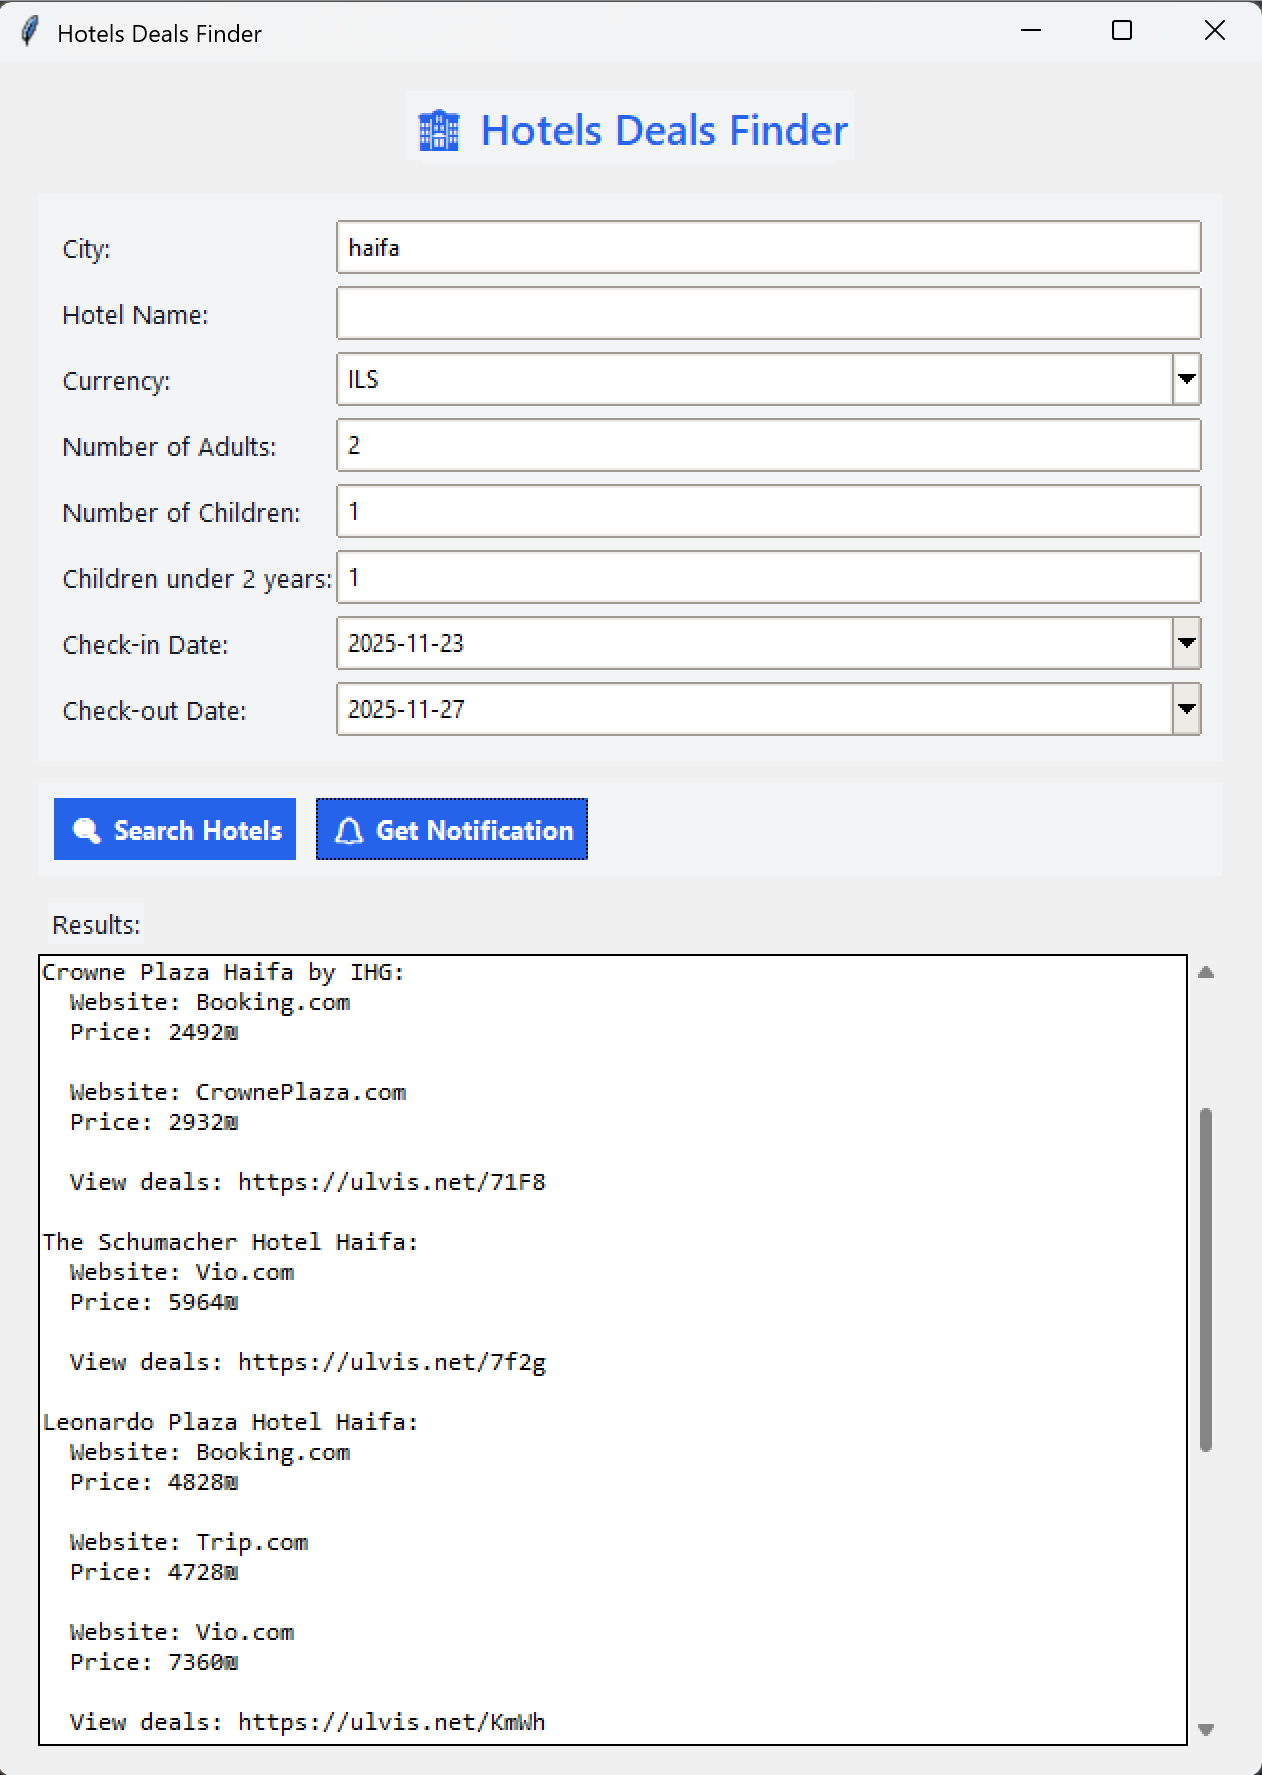
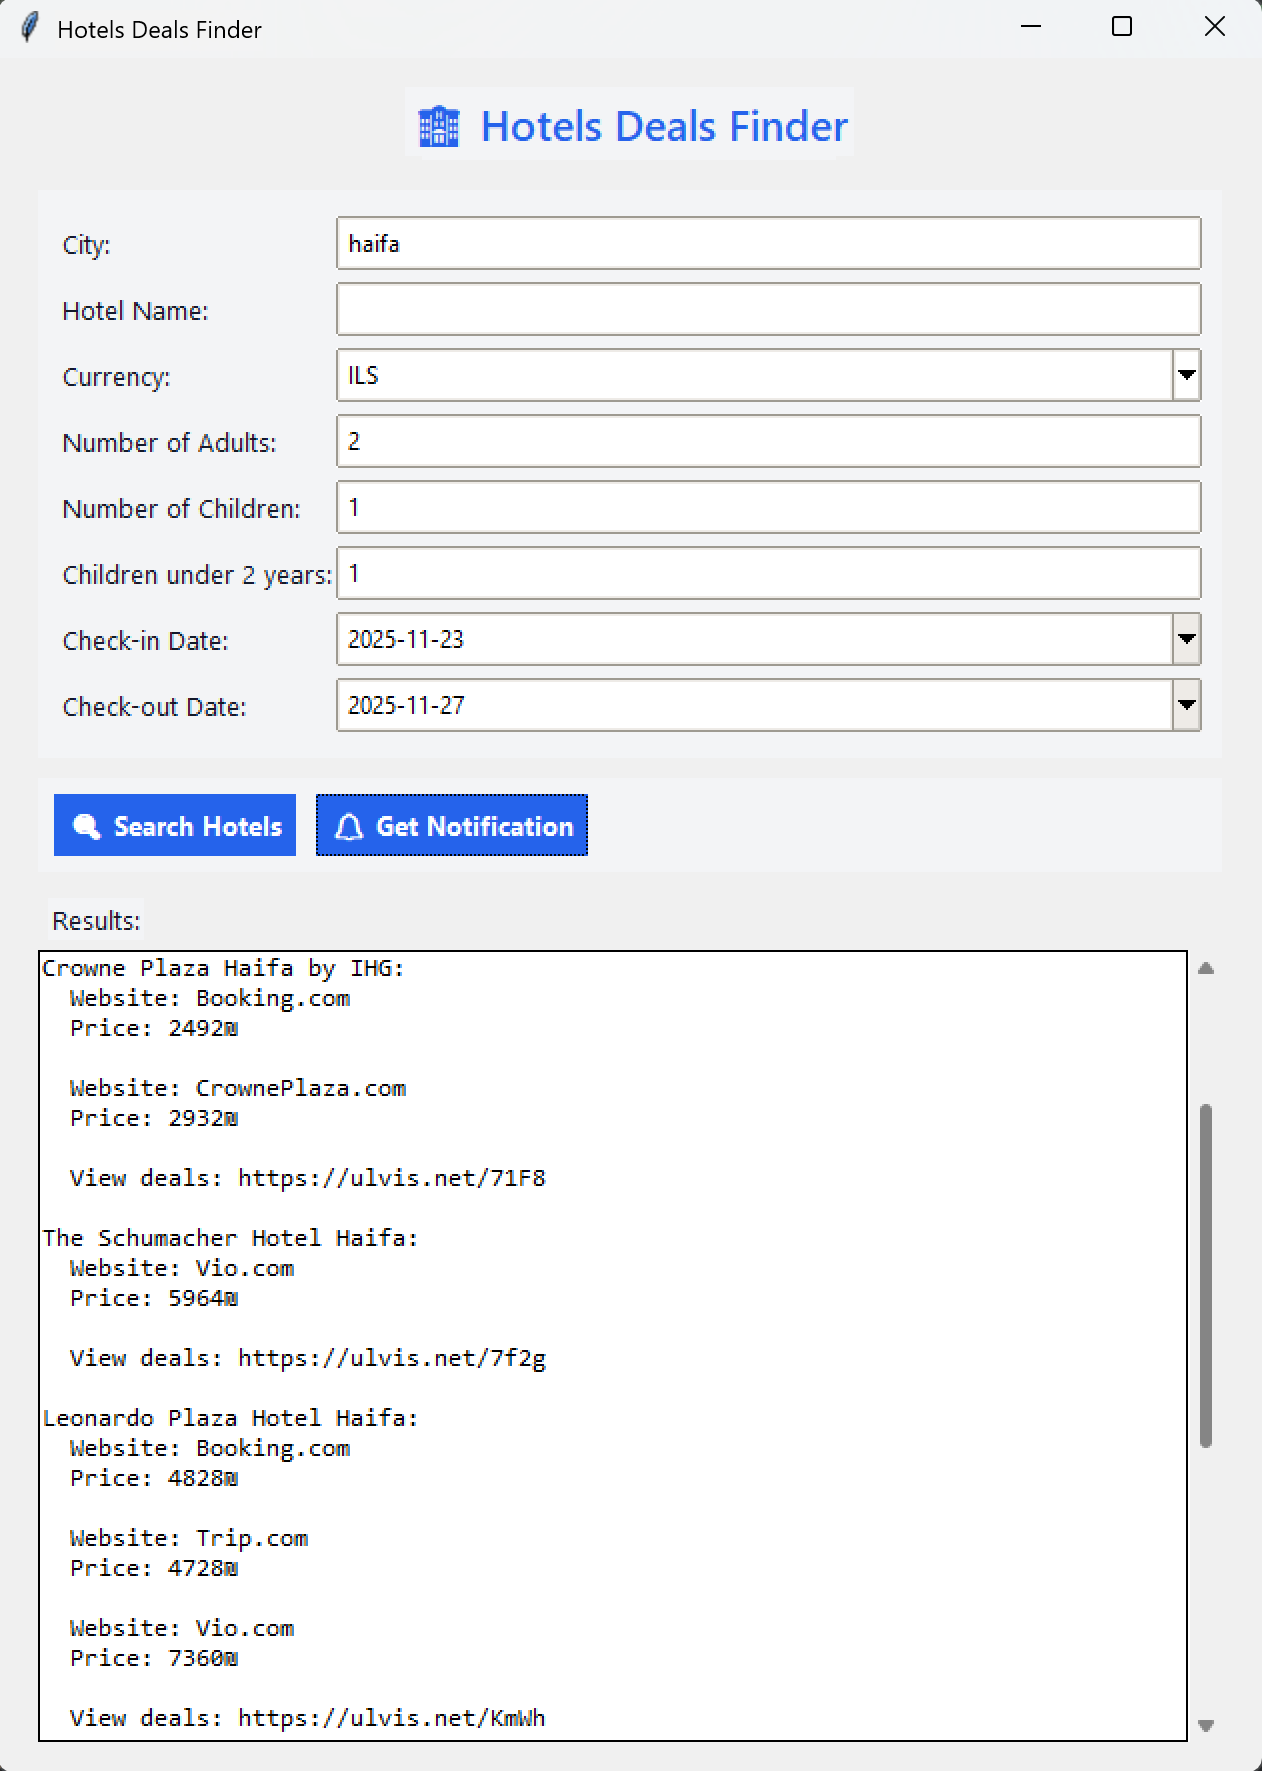
updated screenshot proportions

diff --git a/README.md b/README.md
@@ -6,7 +6,7 @@ The project integrates external APIs, secret management with environment variabl
 
 ## 🎮 Demo
 
-<img src="https://github.com/idoyosef/Hotels-Deals-Finder/blob/main/screenshot.png" alt="Hotels Deals Finder GUI Screenshot" height="400" width="400"/>
+<img src="https://github.com/idoyosef/Hotels-Deals-Finder/blob/main/screenshot.png" alt="Hotels Deals Finder GUI Screenshot" height="600" width="450"/>
 
 ## 🚀 Features
 
